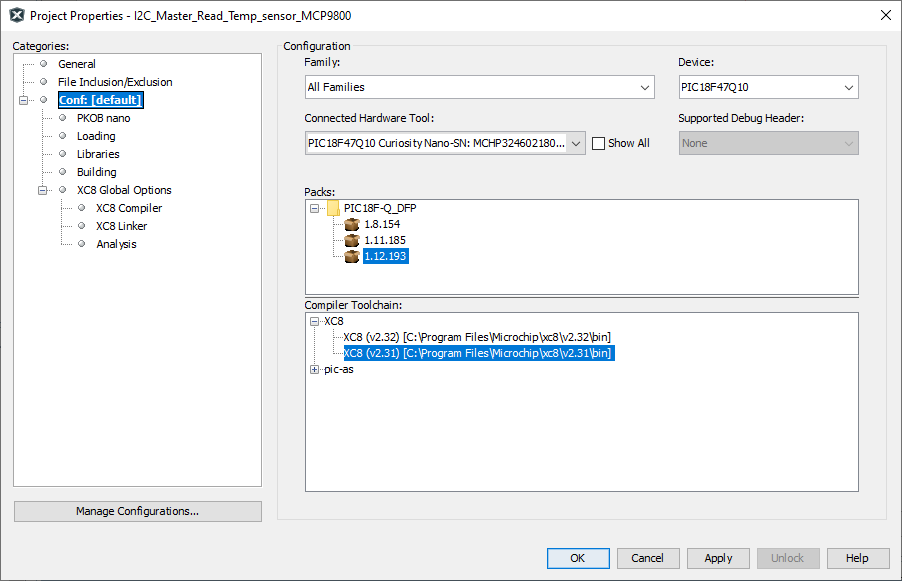
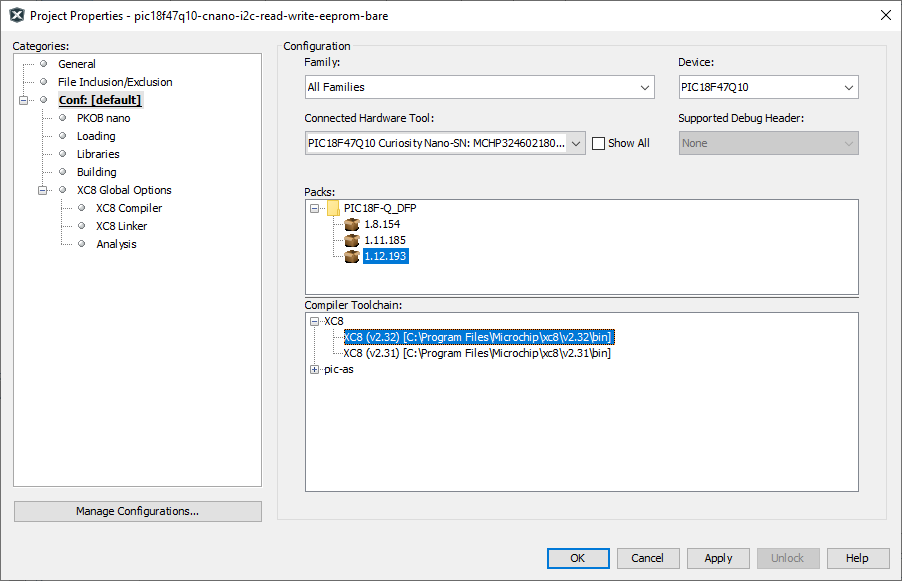
MPAE-13057: Updated the code with error handling, and updated readme + meta

diff --git a/pic18f47q10-cnano-i2c-read-write-eeprom-bare.X/main.c b/pic18f47q10-cnano-i2c-read-write-eeprom-bare.X/main.c
@@ -35,6 +35,8 @@
 #define PAGESIZE                        8
 #define TESTSIZE                        12
 
+uint8_t dataOperationSuccessful;
+
 
 static void CLK_Initialize(void);
 static void PPS_Initialize(void);
@@ -58,7 +60,7 @@ static uint8_t I2C1_writeNBytes_EEPROM(uint8_t address, uint8_t memory_address, 
 uint8_t I2C1_read1ByteRegister(uint8_t address, uint8_t reg);
 void I2C1_readNBytes(uint8_t address, uint8_t reg, uint8_t* data, uint8_t length);
 static uint8_t MIN(uint8_t x,uint8_t y);
-
+static uint8_t I2C1_operationSuccessful(void);
 
 void main(void)
 {
@@ -79,10 +81,18 @@ void main(void)
     }
     
     EEPROM_write_address = I2C1_writeNBytes_EEPROM(I2C_CLIENT_ADDR, EEPROM_write_address, dataWrite, TESTSIZE, PAGESIZE);
+    if (!I2C1_operationSuccessful())
+    {
+        /* Handle Error */
+    }
     
     while (1)
     {
         I2C1_readNBytes(I2C_CLIENT_ADDR, EEPROM_readback_address, dataRead, TESTSIZE);
+        if (!I2C1_operationSuccessful())
+        {
+            /* Handle Error */
+        }
         __delay_ms(5000);
 	}
 }
@@ -91,10 +101,10 @@ void main(void)
 
 static void CLK_Initialize(void)
 {
-    /* Set Oscilator Source: HFINTOSC and Set Clock Divider: 1 */
+    /* Set Oscillator Source: HFINTOSC and Set Clock Divider: 1 */
     OSCCON1bits.NOSC = 0x6;
 
-    /* Set Nominal Freq: 4 MHz */
+    /* Set Nominal frequency: 4 MHz */
     OSCFRQbits.FRQ1 = 1;
 }
 
@@ -129,7 +139,7 @@ static void I2C1_Initialize(void)
     /* I2C Master Mode: Clock = F_OSC / (4 * (SSP1ADD + 1)) */
     SSP1CON1bits.SSPM3 = 1;
     
-    /* Set the boud rate devider to obtain the I2C clock at 100000 Hz*/
+    /* Set the baud rate divider to obtain the I2C clock at 100000 Hz*/
     SSP1ADD  = 0x09;
 }
 
@@ -223,6 +233,7 @@ static void I2C1_write1ByteRegister(uint8_t address, uint8_t reg, uint8_t data)
 {
     /* Shift the 7 bit address and add a 0 bit to indicate write operation */
     uint8_t writeAddress = (address << 1) & ~I2C_RW_BIT;
+    dataOperationSuccessful = 1;
     
     I2C1_open();
     I2C1_startCondition();
@@ -230,19 +241,22 @@ static void I2C1_write1ByteRegister(uint8_t address, uint8_t reg, uint8_t data)
     I2C1_sendData(writeAddress);
     if (I2C1_getAckstatBit())
     {
-        return ;
+        /* Error occurred */
+        dataOperationSuccessful = 0;
     }
     
     I2C1_sendData(reg);
     if (I2C1_getAckstatBit())
     {
-        return ;
+        /* Error occurred */
+        dataOperationSuccessful = 0;
     }
     
     I2C1_sendData(data);
     if (I2C1_getAckstatBit())
     {
-        return ;
+        /* Error occurred */
+        dataOperationSuccessful = 0;
     }
     
     I2C1_stopCondition();
@@ -253,7 +267,7 @@ void I2C1_writeNBytes(uint8_t address, uint8_t reg, uint8_t* data, uint8_t lengt
 {
     /* Shift the 7-bit address and add a 0 bit to indicate a write operation */
     uint8_t writeAddress = (address << 1) & ~I2C_RW_BIT;
-    
+    dataOperationSuccessful = 1;
     I2C1_open();
     
     /* Write the address we want to read to the device */
@@ -262,13 +276,15 @@ void I2C1_writeNBytes(uint8_t address, uint8_t reg, uint8_t* data, uint8_t lengt
     I2C1_sendData(writeAddress);
     if (I2C1_getAckstatBit())
     {
-        return;
+        /* Error occurred */
+        dataOperationSuccessful = 0;
     }
     
     I2C1_sendData(reg);
     if (I2C1_getAckstatBit())
     {
-        return;
+        /* Error occurred */
+        dataOperationSuccessful = 0;
     }
     
     uint8_t i = 0;
@@ -277,7 +293,8 @@ void I2C1_writeNBytes(uint8_t address, uint8_t reg, uint8_t* data, uint8_t lengt
         I2C1_sendData(*data++);
         if (I2C1_getAckstatBit())
         {
-            return;
+            /* Error occurred */
+            dataOperationSuccessful = 0;
         }
         i++;
     }
@@ -330,6 +347,7 @@ uint8_t I2C1_read1ByteRegister(uint8_t address, uint8_t reg)
     uint8_t writeAddress = (address << 1) & ~I2C_RW_BIT;
     uint8_t readAddress = (address << 1) | I2C_RW_BIT;
     uint8_t dataRead;
+    dataOperationSuccessful = 1;
     
     I2C1_open();
     I2C1_startCondition();
@@ -337,13 +355,15 @@ uint8_t I2C1_read1ByteRegister(uint8_t address, uint8_t reg)
     I2C1_sendData(writeAddress);
     if (I2C1_getAckstatBit())
     {
-        return 0x0042;
+        /* Error occurred */
+        dataOperationSuccessful = 0;
     }
     
     I2C1_sendData(reg);
     if (I2C1_getAckstatBit())
     {
-        return 0x0042;
+        /* Error occurred */
+        dataOperationSuccessful = 0;
     }
 
     I2C1_startCondition();
@@ -352,7 +372,8 @@ uint8_t I2C1_read1ByteRegister(uint8_t address, uint8_t reg)
 
     if (I2C1_getAckstatBit())
     {
-        return 0x0042;
+        /* Error occurred */
+        dataOperationSuccessful = 0;
     }
     I2C1_setRecieveMode();
     
@@ -381,13 +402,15 @@ void I2C1_readNBytes(uint8_t address, uint8_t reg, uint8_t* data, uint8_t length
     I2C1_sendData(writeAddress);
     if (I2C1_getAckstatBit())
     {
-        return;
+        /* Error occurred */
+        dataOperationSuccessful = 0;
     }
     
     I2C1_sendData(reg);
     if (I2C1_getAckstatBit())
     {
-        return;
+        /* Error occurred */
+        dataOperationSuccessful = 0;
     }
  
     /* Start reading data*/
@@ -397,7 +420,8 @@ void I2C1_readNBytes(uint8_t address, uint8_t reg, uint8_t* data, uint8_t length
 
     if (I2C1_getAckstatBit())
     {
-        return;
+        /* Error occurred */
+        dataOperationSuccessful = 0;
     }
     
     uint8_t i = 0;
@@ -424,5 +448,10 @@ static uint8_t MIN(uint8_t x,uint8_t y)
 {
     if(x < y) return x;
     return y;
+}
+
+static uint8_t I2C1_operationSuccessful(void)
+{
+    return dataOperationSuccessful;
 }
 

diff --git a/README.md b/README.md
@@ -21,7 +21,7 @@ The PIC18F47Q10 configured in I2C Host Mode using the MSSP1 peripheral and perfo
 ## Software Used
 
 - MPLAB� X IDE 5.50.0 or newer [(MPLAB� X IDE 5.50)](https://www.microchip.com/en-us/development-tools-tools-and-software/mplab-x-ide?utm_source=GitHub&utm_medium=TextLink&utm_campaign=MCU8_MMTCha_MPAE_Examples&utm_content=pic18f47q10-cnano-i2c-read-write-temp-sensor-bare-github)
-- MPLAB� XC8 2.31.0 or newer compiler [(MPLAB� XC8 2.31)](https://www.microchip.com/en-us/development-tools-tools-and-software/mplab-xc-compilers?utm_source=GitHub&utm_medium=TextLink&utm_campaign=MCU8_MMTCha_MPAE_Examples&utm_content=pic18f47q10-cnano-i2c-read-write-temp-sensor-bare-github)
+- MPLAB� XC8 2.32.0 or newer compiler [(MPLAB� XC8 2.32)](https://www.microchip.com/en-us/development-tools-tools-and-software/mplab-xc-compilers?utm_source=GitHub&utm_medium=TextLink&utm_campaign=MCU8_MMTCha_MPAE_Examples&utm_content=pic18f47q10-cnano-i2c-read-write-temp-sensor-bare-github)
 - Microchip PIC18F-Q Series Device Support 1.12.193 or newer [(packs.download.microchip.com/)](https://packs.download.microchip.com/)
 
 ## Hardware Used
